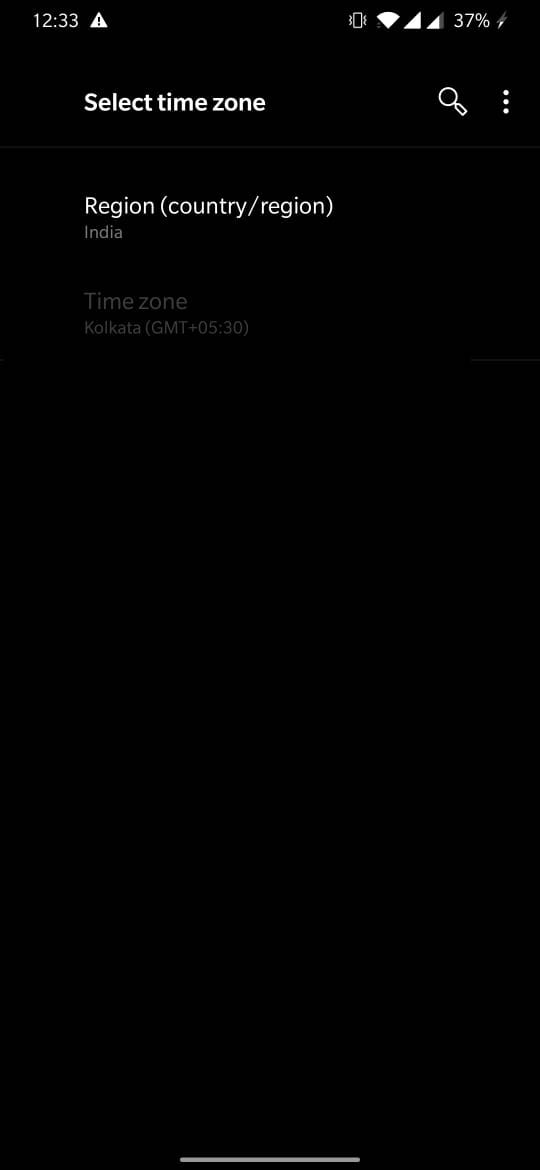
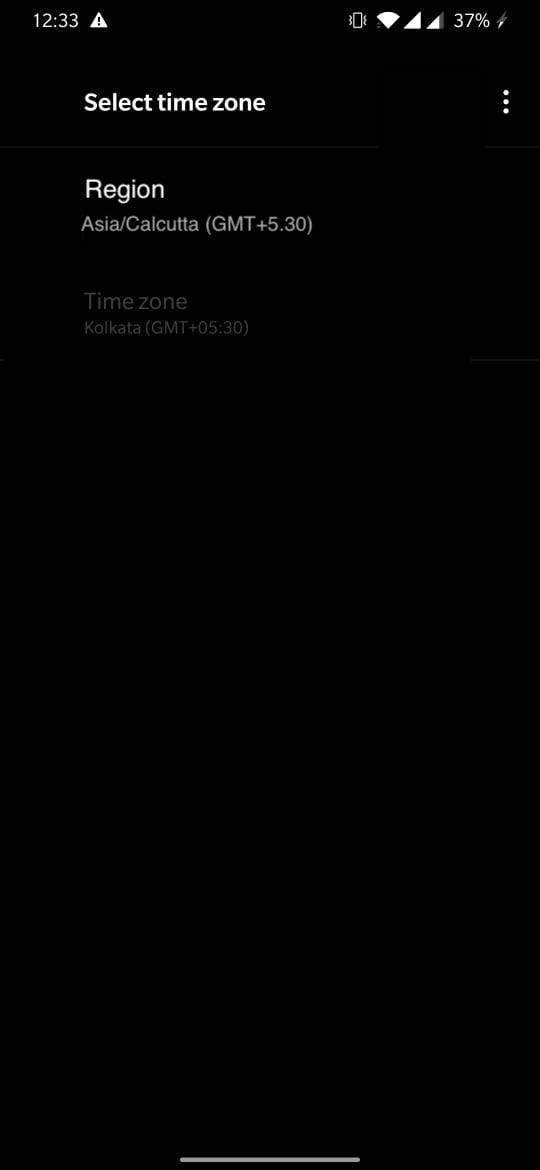
Day 26 update

Changed region(s): [[0.1481, 0.1538, 0.6222, 0.2154], [0.8, 0.0615, 0.8593, 0.0923]]

diff --git a/Day 26.md b/Day 26.md
@@ -10,7 +10,7 @@
  
  ![](screenshots/timezonePicker.jpeg)
  But we want to merge the region and timezone property
-     so it should be: India/Kolkata (GMT+5.30)/1.00 PM
+     so it should be: Asia/Kolkata (GMT+5.30)
      
  When this item is clicked it should take me to list of all available timezones
  
